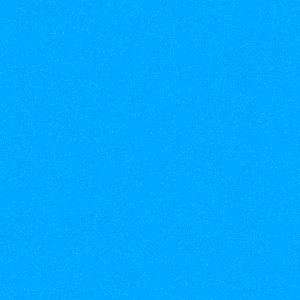
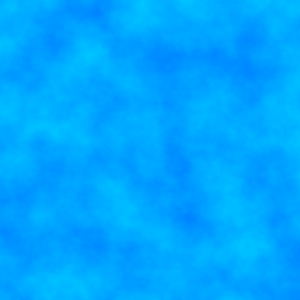
changed the game background

diff --git a/NOTE.md b/NOTE.md
@@ -14,7 +14,7 @@ A faire :
    - Si le port est déjà utilisé, le jeu n'indique par l'erreur à l'hôte
    - Les champs invalides n'empêchent pas de faire l'action
    - (incertain) Dans de rare cas (souvent en fermant brutalement la fenêtre) le processus ne s'arrête pas
-   - Si la fenêtre est fermé, l'erreur "delete_vao AttributeError: 'NoneType' object has no attribute 'current_context'" apparait parfois
+   - Si la fenêtre est fermée, l'erreur "delete_vao AttributeError: 'NoneType' object has no attribute 'current_context'" apparait parfois
 
 4. Vérification :
    - Tester sur Linux
